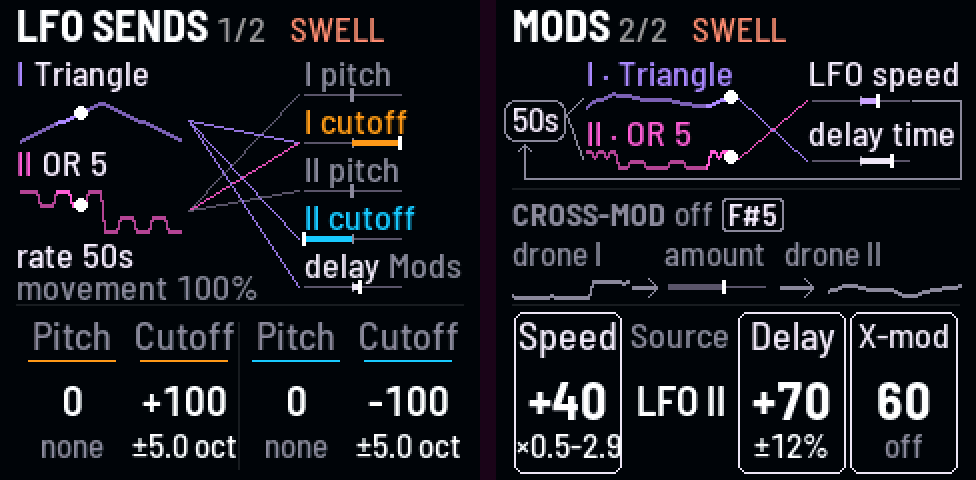
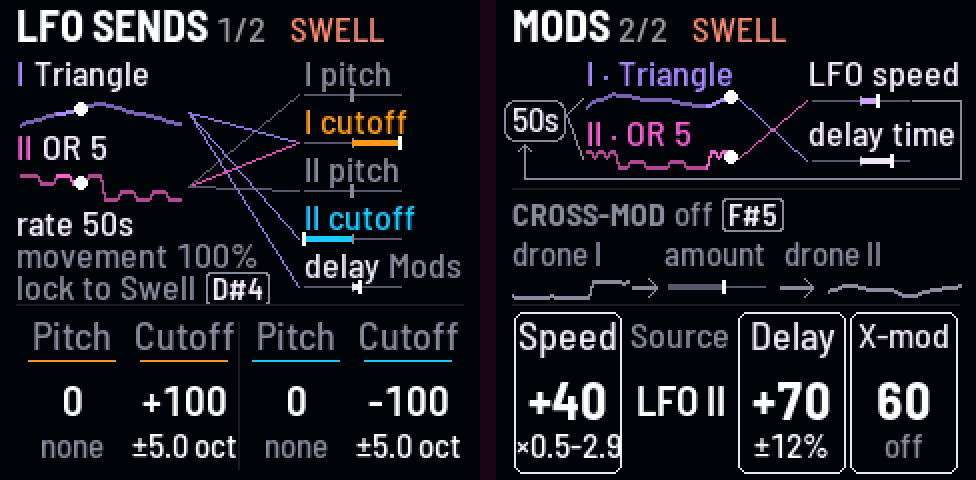
LFO sends: the Swell lock's line always there, "lock to Swell [D#4]" in gray while free (Evan)

Changed region(s): [[0.0, 0.2188, 0.3074, 0.625], [0.2766, 0.2188, 0.3074, 0.25]]

diff --git a/firmware/src/app/look.c b/firmware/src/app/look.c
@@ -1207,8 +1207,8 @@ static int lk_wave_on(int route, int w)        /* a route (DR_LFO_*) takes wave 
 static void lk_pic_lfo(void)
 {
     const int clock = dr_ext_spb > 0.0f, lock = proj.par[P_LFO_LOCK] != 0;
-    const int nl = 2 + lock;                   /* the rate, the Movement (always, 100 % too: coming and going it moved
-                                                * the page; Evan, 2026-11-02), the lock */
+    const int nl = 3;                          /* the rate, the Movement and the Swell lock, always (coming and going
+                                                * they moved the page; Evan, 2026-11-02) */
     const int32_t lh = (int32_t)LK_F_SMALL.h - 3, tb = LK_PIC_H - 1 - nl * lh, wh = tb / 2;
     int32_t wy[2];
     int w, d;
@@ -1233,9 +1233,9 @@ static void lk_pic_lfo(void)
         scopy(q, "%");
         cv_text(8, tb + lh, &LK_F_SMALL, t, proj.par[P_MOVE] != 50 ? LK_VIOLET : LK_LABEL);   /* as set: gray */
     }
-    if (lock)
-        cv_text(8, tb + lh * 2, &LK_F_SMALL, proj.par[P_PULSE] ? "restarts with Swell" : "lock waits for Swell",
-                LK_CORAL);
+    lk_ktext(8, tb + lh * 2, &LK_F_SMALL, !lock ? "lock to Swell [D#4]" : proj.par[P_PULSE] ? "restarts with Swell"
+                                                                                   : "lock waits for Swell",
+             lock ? LK_CORAL : LK_LABEL);      /* unlocked: how to lock it, gray */
     for (d = 0; d < 5; d++) {                  /* the rows: I pitch, I cutoff, II pitch, II cutoff, delay */
         const int g = d / 2, osc = d % 2 == 0;
         const int route = d < 4 ? gpar(g, osc ? GP_OLFO : GP_FLFO) : proj.par[P_DLY_LFO];
